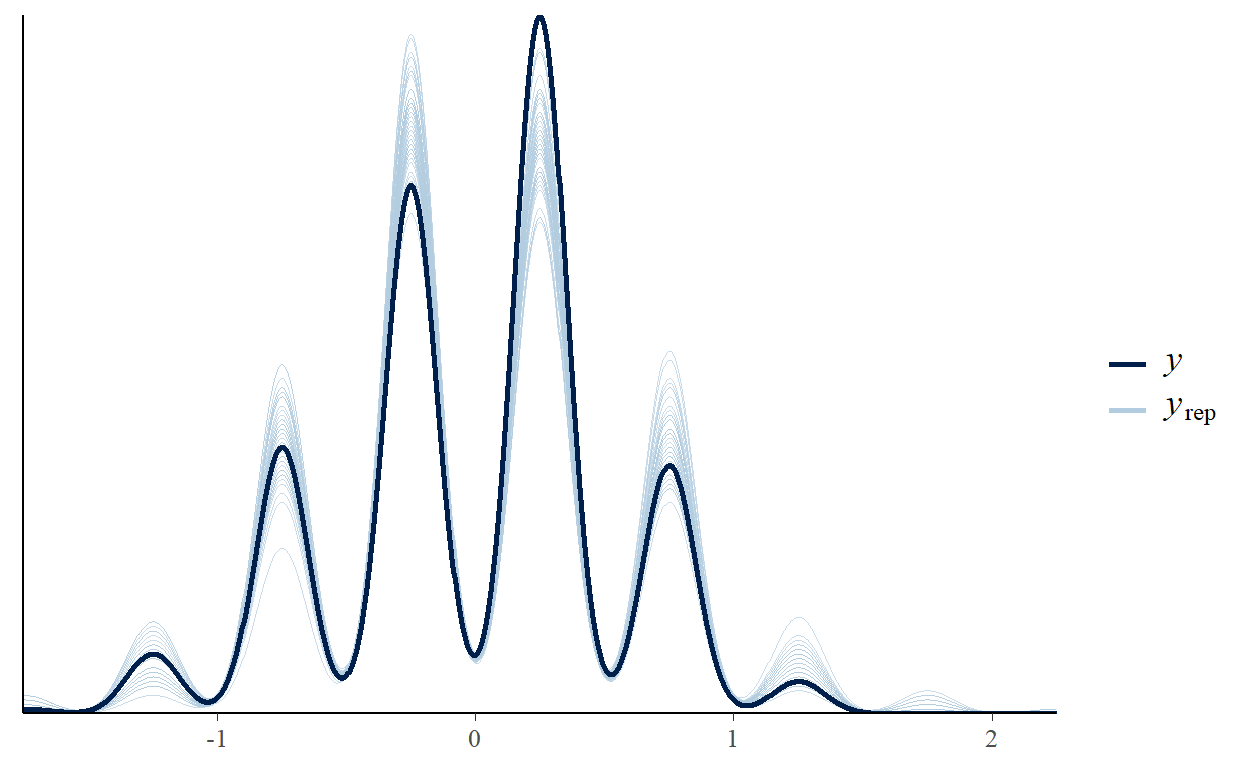
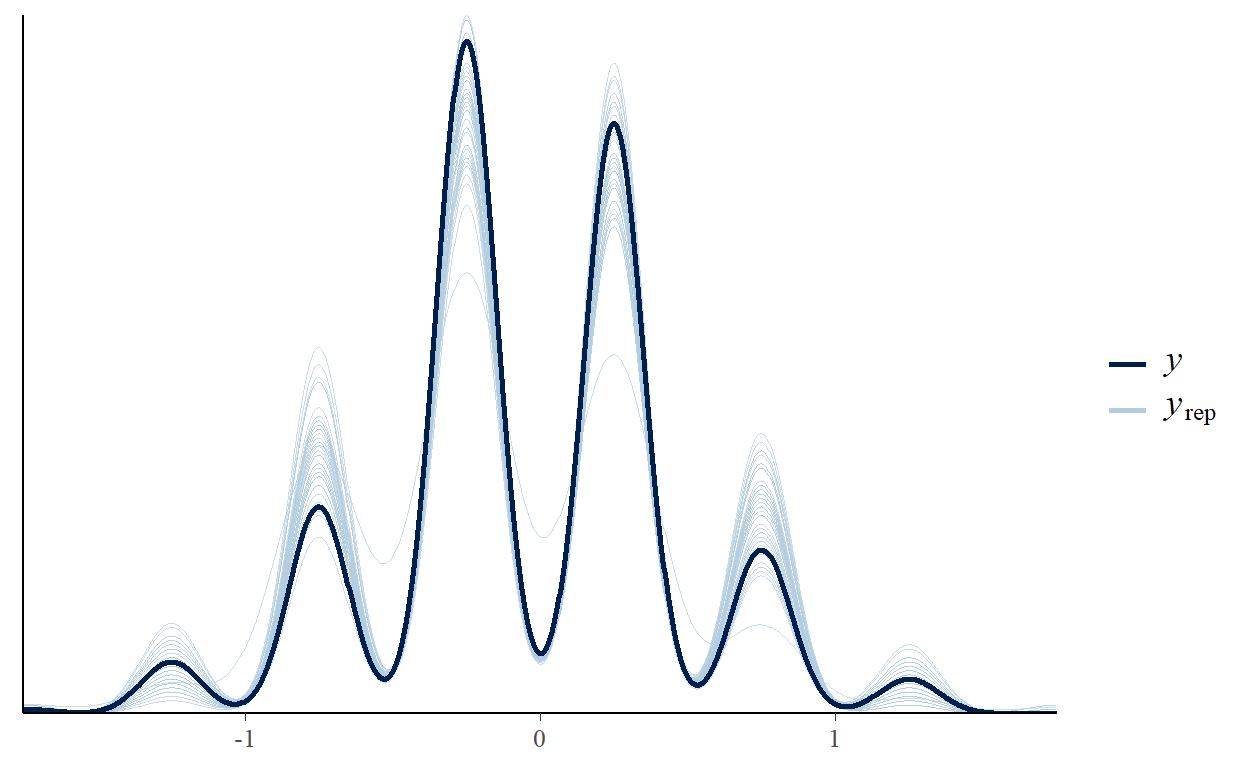
update with short description

Changed region(s): [[0.0312, 0.0312, 0.7812, 0.9375], [0.375, 0.9375, 0.4375, 0.9688]]

diff --git a/_posts/2022-07-07-histogram-data/histogram-data.html b/_posts/2022-07-07-histogram-data/histogram-data.html
@@ -89,7 +89,7 @@ code span.wa { color: #5e5e5e; font-style: italic; } /* Warning */
   <!--radix_placeholder_meta_tags-->
   <title>Histogram data</title>
 
-  <meta property="description" itemprop="description" content="A short description of the post."/>
+  <meta property="description" itemprop="description" content="Modelling and binning Histogram data for fun and profit."/>
 
 
   <!--  https://schema.org/Article -->
@@ -99,24 +99,24 @@ code span.wa { color: #5e5e5e; font-style: italic; } /* Warning */
   <!--  https://developers.facebook.com/docs/sharing/webmasters#markup -->
   <meta property="og:title" content="Histogram data"/>
   <meta property="og:type" content="article"/>
-  <meta property="og:description" content="A short description of the post."/>
+  <meta property="og:description" content="Modelling and binning Histogram data for fun and profit."/>
   <meta property="og:locale" content="en_US"/>
 
   <!--  https://dev.twitter.com/cards/types/summary -->
   <meta property="twitter:card" content="summary"/>
   <meta property="twitter:title" content="Histogram data"/>
-  <meta property="twitter:description" content="A short description of the post."/>
+  <meta property="twitter:description" content="Modelling and binning Histogram data for fun and profit."/>
 
   <!--/radix_placeholder_meta_tags-->
   <!--radix_placeholder_rmarkdown_metadata-->
 
   <script type="text/json" id="radix-rmarkdown-metadata">
-  {"type":"list","attributes":{"names":{"type":"character","attributes":{},"value":["title","description","date","output","draft","editor_options"]}},"value":[{"type":"character","attributes":{},"value":["Histogram data"]},{"type":"character","attributes":{},"value":["A short description of the post.\n"]},{"type":"character","attributes":{},"value":["07-07-2022"]},{"type":"list","attributes":{"names":{"type":"character","attributes":{},"value":["distill::distill_article"]}},"value":[{"type":"list","attributes":{"names":{"type":"character","attributes":{},"value":["self_contained"]}},"value":[{"type":"logical","attributes":{},"value":[false]}]}]},{"type":"logical","attributes":{},"value":[true]},{"type":"list","attributes":{"names":{"type":"character","attributes":{},"value":["chunk_output_type"]}},"value":[{"type":"character","attributes":{},"value":["console"]}]}]}
+  {"type":"list","attributes":{"names":{"type":"character","attributes":{},"value":["title","description","date","output","draft","editor_options"]}},"value":[{"type":"character","attributes":{},"value":["Histogram data"]},{"type":"character","attributes":{},"value":["Modelling and binning Histogram data for fun and profit.\n"]},{"type":"character","attributes":{},"value":["07-07-2022"]},{"type":"list","attributes":{"names":{"type":"character","attributes":{},"value":["distill::distill_article"]}},"value":[{"type":"list","attributes":{"names":{"type":"character","attributes":{},"value":["self_contained"]}},"value":[{"type":"logical","attributes":{},"value":[false]}]}]},{"type":"logical","attributes":{},"value":[true]},{"type":"list","attributes":{"names":{"type":"character","attributes":{},"value":["chunk_output_type"]}},"value":[{"type":"character","attributes":{},"value":["console"]}]}]}
   </script>
   <!--/radix_placeholder_rmarkdown_metadata-->
   
   <script type="text/json" id="radix-resource-manifest">
-  {"type":"character","attributes":{},"value":["categorical_hist","categorical_hist.exe","categorical_hist.stan","categorical_hist_norm","categorical_hist_norm.exe","categorical_hist_norm.stan","histogram-data_files/figure-html5/unnamed-chunk-1-1.png","histogram-data_files/figure-html5/unnamed-chunk-10-1.png","histogram-data_files/figure-html5/unnamed-chunk-11-1.png","histogram-data_files/figure-html5/unnamed-chunk-6-1.png","histogram-data_files/figure-html5/unnamed-chunk-7-1.png","histogram-data_files/figure-html5/unnamed-chunk-7-2.png","histogram-data_files/figure-html5/unnamed-chunk-8-1.png","histogram-data_files/figure-html5/unnamed-chunk-9-1.png","manual_probit_categorical.stan","midpoint","midpoint.exe","midpoint.stan","multinom_norm","multinom_norm.exe","multinom_norm.stan","Untitled.stan"]}
+  {"type":"character","attributes":{},"value":["categorical_hist","categorical_hist.exe","categorical_hist.stan","categorical_hist_norm","categorical_hist_norm.exe","categorical_hist_norm.stan","histogram-data_files/anchor-4.2.2/anchor.min.js","histogram-data_files/bowser-1.9.3/bowser.min.js","histogram-data_files/distill-2.2.21/template.v2.js","histogram-data_files/figure-html5/unnamed-chunk-1-1.png","histogram-data_files/figure-html5/unnamed-chunk-10-1.png","histogram-data_files/figure-html5/unnamed-chunk-11-1.png","histogram-data_files/figure-html5/unnamed-chunk-6-1.png","histogram-data_files/figure-html5/unnamed-chunk-7-1.png","histogram-data_files/figure-html5/unnamed-chunk-7-2.png","histogram-data_files/figure-html5/unnamed-chunk-8-1.png","histogram-data_files/figure-html5/unnamed-chunk-9-1.png","histogram-data_files/header-attrs-2.13/header-attrs.js","histogram-data_files/jquery-3.6.0/jquery-3.6.0.js","histogram-data_files/jquery-3.6.0/jquery-3.6.0.min.js","histogram-data_files/jquery-3.6.0/jquery-3.6.0.min.map","histogram-data_files/popper-2.6.0/popper.min.js","histogram-data_files/tippy-6.2.7/tippy-bundle.umd.min.js","histogram-data_files/tippy-6.2.7/tippy-light-border.css","histogram-data_files/tippy-6.2.7/tippy.css","histogram-data_files/tippy-6.2.7/tippy.umd.min.js","histogram-data_files/webcomponents-2.0.0/webcomponents.js","manual_probit_categorical.stan","midpoint","midpoint.exe","midpoint.stan","multinom_norm","multinom_norm.exe","multinom_norm.stan","Untitled.stan"]}
   </script>
   <!--radix_placeholder_navigation_in_header-->
   <!--/radix_placeholder_navigation_in_header-->
@@ -1458,7 +1458,7 @@ code span.wa { color: #5e5e5e; font-style: italic; } /* Warning */
 <!--radix_placeholder_front_matter-->
 
 <script id="distill-front-matter" type="text/json">
-{"title":"Histogram data","description":"A short description of the post.","authors":[],"publishedDate":"2022-07-07T00:00:00.000-04:00"}
+{"title":"Histogram data","description":"Modelling and binning Histogram data for fun and profit.","authors":[],"publishedDate":"2022-07-07T00:00:00.000-04:00"}
 </script>
 
 <!--/radix_placeholder_front_matter-->
@@ -1471,7 +1471,7 @@ code span.wa { color: #5e5e5e; font-style: italic; } /* Warning */
 <h1>Histogram data</h1>
 <!--radix_placeholder_categories-->
 <!--/radix_placeholder_categories-->
-<p><p>A short description of the post.</p></p>
+<p><p>Modelling and binning Histogram data for fun and profit.</p></p>
 </div>
 
 
@@ -1497,12 +1497,12 @@ code span.wa { color: #5e5e5e; font-style: italic; } /* Warning */
 <span class='va'>rr_mean</span>
 </code></pre>
 </div>
-<pre><code>[1] 0.0085</code></pre>
+<pre><code>[1] -0.019</code></pre>
 <div class="sourceCode">
 <pre class="sourceCode r"><code class="sourceCode r"><span class='fu'><a href='https://rdrr.io/r/base/with.html'>with</a></span><span class='op'>(</span><span class='va'>cut_rr_tbl</span>, <span class='fu'><a href='https://rdrr.io/r/base/sum.html'>sum</a></span><span class='op'>(</span><span class='va'>up</span><span class='op'>*</span><span class='va'>n</span><span class='op'>)</span><span class='op'>/</span><span class='fu'><a href='https://rdrr.io/r/base/sum.html'>sum</a></span><span class='op'>(</span><span class='va'>n</span><span class='op'>)</span><span class='op'>)</span>
 </code></pre>
 </div>
-<pre><code>[1] 0.2585</code></pre>
+<pre><code>[1] 0.231</code></pre>
 </div>
 <p>Can we do this same trick with the variance</p>
 <div class="layout-chunk" data-layout="l-body">
@@ -1510,7 +1510,7 @@ code span.wa { color: #5e5e5e; font-style: italic; } /* Warning */
 <pre class="sourceCode r"><code class="sourceCode r"><span class='fu'><a href='https://rdrr.io/r/base/with.html'>with</a></span><span class='op'>(</span><span class='va'>cut_rr_tbl</span>, <span class='fu'><a href='https://rdrr.io/r/base/sum.html'>sum</a></span><span class='op'>(</span><span class='op'>(</span><span class='va'>mid</span> <span class='op'>-</span> <span class='va'>rr_mean</span><span class='op'>)</span><span class='op'>^</span><span class='fl'>2</span><span class='op'>*</span><span class='va'>n</span><span class='op'>)</span><span class='op'>/</span><span class='fu'><a href='https://rdrr.io/r/base/sum.html'>sum</a></span><span class='op'>(</span><span class='va'>n</span><span class='op'>)</span><span class='op'>)</span>
 </code></pre>
 </div>
-<pre><code>[1] 1.035053</code></pre>
+<pre><code>[1] 1.013389</code></pre>
 </div>
 <p>yes for sure.</p>
 <p>Now let’s try something in Stan</p>
@@ -1526,25 +1526,25 @@ code span.wa { color: #5e5e5e; font-style: italic; } /* Warning */
 <span class='fu'><a href='https://rdrr.io/r/base/numeric.html'>as.numeric</a></span><span class='op'>(</span><span class='va'>rr_cut</span><span class='op'>)</span>
 </code></pre>
 </div>
-<pre><code>  [1] 16 14 11 15 15 16 13 16 14 16 18 15 19 16 12 11 13 13 17 13 15
- [22] 13 17 12 15 13 13 15 14 12 16 16 12 16 16 13 15 17 11 16 14 16
- [43] 14 14 12 15 12 15 20 13 16 16 12 12 12 13 15 15 17 16 11 13 12
- [64] 14 15 15 11 15 17 14 15 16 13 15 12 16 15 15 14 17 14 13 16 15
- [85] 16 13 14 16 15 15 15 11 16 11 15 12 17 17 16 13 15 13 16 14 15
-[106] 14 17 12 14 16 13 14 15 12 15 13 14 12 15 15 17 12 14 12 16 17
-[127] 16 12 15 15 16 15 14 18 14 16 15 16 15 13 16 13 12 14 17 13 16
-[148] 17 16 12 16 15 18 14 13 16 13 15 13 17 13 12 13 15 12 15 14 11
-[169] 14 16 14 14 14 14 13 15 10 14 13 17 13 18 16 16 18 15 12 12 13
-[190] 16 17 20 16 15 16 12 13 17 14 18 14 13 15 15 15 14 13 18 15 15
-[211] 14 10 17 11 16 16 11 15 12 10 14 14 14 16 16 16 13 15 15 17 15
-[232] 14 16 14 18 12 11 14 16 18 16 15 15 18 12 12 14 13 13 13 12 14
-[253] 14 14 13 14 14 15 15 15 12 13 16 12 14 14 16 15 15 11 19 15 13
-[274] 16 16 13 11 14 13 17 14 14 17 11 16 15 18 15 16 13 14 14 16 14
-[295] 12 14 17 14 14 14 14 15 14 15 15 13 16 14 13 13 15 15 14 17 18
-[316] 11 12 15 12 14 12 15 13 16 16 11 13 15 12 15 18 12 12 17 14 17
-[337] 13 12 19 15 14 14 17 11 13 16 15 12 10 15 17 14 17 18 16 12 18
-[358] 15 16 14 16 16 13 16 15 15 16 14 13 21 17 17 10 17 12 14 14 15
-[379] 17 11 15 14 13 15 16 11 13 14 14 13 12 18 14 16 12 15 12 15 13
+<pre><code>  [1] 17 15 17 15 14 14 17 13 19 13 14 17 15 14 15 15 16 13 17 11 21
+ [22] 16 14 12 12 16 17 11 12 10 15 11 16 18 16 12 11 16 16 14 16 13
+ [43] 17 13 13 16 15 18 14 15 12 19 15 12 17 16 17 17 13 12 14 13 11
+ [64] 11 17  9 15 12 16 14 14 16 13 11 15 15 14 19 16 13 16 15 15 16
+ [85] 14 11 11 18 16 13 15 12 17 14 12 16 15 14 14 13 16 15 14 16 18
+[106] 11 15 13 15 16 13 15 15 14 17 15 15 17 11 15 11 14 10 14 13 16
+[127] 16 15 13 16 16 16 17 17 18 16 15 18 14 16 14 17 15 15 14 18 16
+[148] 16 13 13 15 17 17 17 12 16 15 18 14 12 14 15 15 16 19 17 17 12
+[169] 14 13 14 16 14 13 19 15 14 12 14 15 13 13  7 17 13 14 10 16 13
+[190] 13 12 18 14 12 11 13 17 13 14 13 15 13 15 15 13 15 14 14 14 12
+[211] 12 14 14 16 13 15 10 18 14 16 16 16 18 18 15 19 12 16 16 14 12
+[232] 15 15 12 15 13 16 13 15 14 14 13 16 18 16 15 15 14 13 15 16 13
+[253] 18 18 15 12 13 14 14 16 15 16 15 17 15 13 13 14 11 15 16 15 12
+[274] 20 14 20 16 17 13 15 13 13 14 12 12 17 11 15 15 17 11 18 11 17
+[295] 14 14 13 12 13 16 11 13 19 11 13 15 14 16 15 17 15 17 17 15 14
+[316] 13 15 13 15 13 14 19 17 12 10 15 15 12 14 15 17 13 10 13 16 13
+[337] 16 15 18  9 16 14 14 15 12 10 11 15 14 16 15 12 18 12 16 15 11
+[358] 17 15 15 14 14 14 12 14 15 16 14 15 16 15 16 13 16 13 16 12 15
+[379] 11 14 17 17 15 15 13 14 16 15 15 18 14 16 15 16 18 16 14 15 16
 [400] 15</code></pre>
 <div class="sourceCode">
 <pre class="sourceCode r"><code class="sourceCode r"><span class='va'>breaks</span>
@@ -1687,7 +1687,7 @@ Chain 4 finished in 0.3 seconds.
 
 All 4 chains finished successfully.
 Mean chain execution time: 0.3 seconds.
-Total execution time: 1.9 seconds.</code></pre>
+Total execution time: 2.0 seconds.</code></pre>
 </div>
 <h2 id="via-multinomial">via multinomial</h2>
 <div class="layout-chunk" data-layout="l-body">
@@ -1804,7 +1804,7 @@ Chain 4 finished in 0.3 seconds.
 
 All 4 chains finished successfully.
 Mean chain execution time: 0.3 seconds.
-Total execution time: 2.1 seconds.</code></pre>
+Total execution time: 1.9 seconds.</code></pre>
 </div>
 <h2 id="sampling-midpoints">sampling midpoints</h2>
 <div class="layout-chunk" data-layout="l-body">
@@ -1849,15 +1849,15 @@ Chain 4 finished in 0.0 seconds.
 
 All 4 chains finished successfully.
 Mean chain execution time: 0.0 seconds.
-Total execution time: 1.1 seconds.</code></pre>
+Total execution time: 1.0 seconds.</code></pre>
 <div class="sourceCode">
 <pre class="sourceCode r"><code class="sourceCode r"><span class='va'>mid_samp</span>
 </code></pre>
 </div>
 <pre><code> variable  mean median   sd  mad    q5   q95 rhat ess_bulk ess_tail
-    lp__  48.94  49.23 0.99 0.71 46.97 49.88 1.00     2090     2375
-    mu    -0.01  -0.01 0.03 0.03 -0.05  0.04 1.00     3196     2511
-    sigma  0.54   0.54 0.02 0.02  0.51  0.57 1.00     3335     2587</code></pre>
+    lp__  74.88  75.19 1.01 0.70 72.91 75.82 1.00     1993     2569
+    mu    -0.05  -0.05 0.03 0.02 -0.09 -0.01 1.00     2901     2645
+    sigma  0.50   0.50 0.02 0.02  0.47  0.53 1.00     3271     2724</code></pre>
 </div>
 <p>lcdf</p>
 <div class="layout-chunk" data-layout="l-body">
@@ -1957,40 +1957,40 @@ from a gamma model.</p>
 <span class='va'>rg</span>
 </code></pre>
 </div>
-<pre><code>  [1] 12.714375 20.261374 14.902104 15.160656 20.990857 12.134050
-  [7] 12.195719 12.967315 12.041215  8.936498 19.065889 18.030585
- [13] 12.560313 17.706094 18.695678 12.444846 14.976548 14.257198
- [19] 12.885201 16.355987 13.493204 11.999802 13.586090 15.098597
- [25] 14.470730 10.424579 21.871143 12.679249 11.736449 11.894312
- [31] 15.413677 13.217943 10.126992 20.435793 20.756067 15.297751
- [37] 15.704461 11.864835 11.783023 13.941997 11.809138 13.644394
- [43] 13.861567 14.224788 13.460850 16.123935 20.417708 10.444592
- [49] 15.263411 13.177385 13.885214 14.273772 13.719960 14.528183
- [55]  7.077746 13.853634 11.089074 13.430395 16.670247 13.026514
- [61] 18.731883 14.300146 16.666546 15.687866 19.239810 10.944613
- [67] 16.698815 13.093772 15.850077 13.586938 20.772102 17.052941
- [73] 14.128761 12.484358 15.190181 13.975236 10.270695 14.726495
- [79] 12.148992 15.765050 13.165498 14.842138 14.963333 14.384130
- [85] 13.712992 12.106312 13.748781 18.303475 17.561887  9.176919
- [91] 13.941207 13.845962  8.891384  7.222275 14.450744 14.087017
- [97]  8.054989 16.703875 14.565028 17.176766 13.486351 12.407643
-[103] 13.156442 13.459740 10.986274 13.975048 10.189795 12.279804
-[109] 18.498456 13.415559 13.308331 15.308379 17.203830 14.239371
-[115] 10.405482 18.281240 15.517911 11.363580 14.339773 14.895010
-[121] 14.453697 13.895750 19.622496 14.784949 14.683383 17.042457
-[127] 17.436831 11.264358 12.576236 13.512371 15.153780 14.060481
-[133] 13.792381 18.526784 12.617535  9.390998 11.024880 13.785221
-[139] 15.185655 12.600033 12.216073 15.915227 22.054257 13.053088
-[145] 14.004962 15.746929 11.441630 11.457314 21.278278 16.199764
-[151] 15.049347 11.776812 14.588791 10.653408 13.768838 15.945099
-[157] 17.035914 14.567141 18.746622 17.263510 14.045482 18.239503
-[163]  8.385748 18.963312 18.572258 15.904708 14.799765 15.126870
-[169] 23.080141 15.136647 14.757372 15.208671 12.326769 13.436154
-[175] 11.434262  9.299138 21.566867 20.375373 18.983133 17.216085
-[181] 17.296938 15.862397 12.043775 14.088120 12.152064 10.716454
-[187] 15.777457 15.179168 12.697168  8.563600 10.967552 18.472881
-[193] 18.656366 11.901159 11.379965 13.411207 13.351771 11.835456
-[199] 13.326990 10.567651</code></pre>
+<pre><code>  [1]  9.289292 12.005772 15.541549 14.980485 11.488991 11.948976
+  [7]  9.487503  7.662266 18.546547 11.489544 14.869158 18.736340
+ [13] 15.707466 13.809892 20.783606 14.438024 13.958879 13.410187
+ [19] 22.043260 13.798665 10.202253 14.089952 17.929055 13.230669
+ [25] 11.284036 13.396635 10.799423 18.174829 14.923843  8.848020
+ [31] 10.383358 12.992467 11.395996 11.558869 13.541719 11.765742
+ [37] 12.436771 12.565700 12.066943 11.785912 19.395157  9.069380
+ [43] 14.240775 11.556181  9.796395  9.173772 12.682824 14.053368
+ [49] 13.385641 10.604164 14.384053 11.994542 16.057552 12.556576
+ [55] 14.882514 10.996791 15.321617 10.368076  9.013996 18.477871
+ [61] 14.678023 16.707531 17.489532 10.750675 15.325352 12.291395
+ [67] 15.459565 13.802409 11.659279 13.836612 22.812591  9.228545
+ [73] 13.937347 15.593809 11.479727 11.200488 13.554615 14.849177
+ [79] 17.070892  8.600793 16.594254 14.951677 15.086493 15.871966
+ [85] 13.633733 14.737208  7.846880  9.885185 18.636334 10.495094
+ [91] 12.485707 14.801332  8.006695 11.482000 12.195254 11.679477
+ [97] 14.715254 11.532013 17.193781 12.417665 12.189632 14.358531
+[103] 11.453968 17.587934 14.867578 16.956199 16.923981  9.869954
+[109]  8.577644 13.398736 11.836296 15.221882 19.210164 11.455254
+[115] 13.990316 17.934294  9.388319 17.738331 12.076512 18.437756
+[121] 10.266981 15.553978 12.962641 12.760626 14.602645 11.515444
+[127] 21.516318 12.051242 15.435814 16.865909  8.998165 11.689229
+[133] 10.839428 10.192649 12.205751  9.851865 14.375486 21.696634
+[139] 15.401531 14.375573 15.478977 14.445968  8.903392 11.117990
+[145] 13.575826 11.332529 22.840403 21.264014 16.355886 14.270868
+[151] 16.800814 11.982217 12.808654 10.477125 14.503280 12.510864
+[157] 16.950217 17.215710 14.206901 12.101521  9.089875 18.375612
+[163] 10.159642 12.931993  9.461659  9.811084 11.266697 16.730067
+[169]  9.836313 16.163374 13.903650 20.468218 16.273985 14.534679
+[175] 17.165503 14.502727 20.263376 16.316309 12.384848 14.704404
+[181] 14.742249 19.045397 15.404344 18.465592 10.330374 12.494951
+[187] 15.831452 15.656513 14.408881 19.616974 14.326729 11.372435
+[193] 16.931427 13.043372 16.255045 15.020328 12.956769 15.679852
+[199] 15.745649 16.054832</code></pre>
 <div class="sourceCode">
 <pre class="sourceCode r"><code class="sourceCode r"><span class='co'># checking growth every even-numbered day</span>
 
@@ -2029,16 +2029,16 @@ from a gamma model.</p>
 <pre class="sourceCode r"><code class="sourceCode r"><span class='va'>mids</span><span class='op'>[</span><span class='fu'><a href='https://rdrr.io/r/base/numeric.html'>as.numeric</a></span><span class='op'>(</span><span class='va'>rg_evencut</span><span class='op'>)</span><span class='op'>]</span>
 </code></pre>
 </div>
-<pre><code>  [1] 13 21 15 15 21 13 13 13 13  9 19 19 13 17 19 13 15 15 13 17 13
- [22] 11 13 15 15 11 21 13 11 11 15 13 11 21 21 15 15 11 11 13 11 13
- [43] 13 15 13 17 21 11 15 13 13 15 13 15  7 13 11 13 17 13 19 15 17
- [64] 15 19 11 17 13 15 13 21 17 15 13 15 13 11 15 13 15 13 15 15 15
- [85] 13 13 13 19 17  9 13 13  9  7 15 15  9 17 15 17 13 13 13 13 11
-[106] 13 11 13 19 13 13 15 17 15 11 19 15 11 15 15 15 13 19 15 15 17
-[127] 17 11 13 13 15 15 13 19 13  9 11 13 15 13 13 15 23 13 15 15 11
-[148] 11 21 17 15 11 15 11 13 15 17 15 19 17 15 19  9 19 19 15 15 15
-[169] 23 15 15 15 13 13 11  9 21 21 19 17 17 15 13 15 13 11 15 15 13
-[190]  9 11 19 19 11 11 13 13 11 13 11</code></pre>
+<pre><code>  [1]  9 13 15 15 11 11  9  7 19 11 15 19 15 13 21 15 13 13 23 13 11
+ [22] 15 17 13 11 13 11 19 15  9 11 13 11 11 13 11 13 13 13 11 19  9
+ [43] 15 11  9  9 13 15 13 11 15 11 17 13 15 11 15 11  9 19 15 17 17
+ [64] 11 15 13 15 13 11 13 23  9 13 15 11 11 13 15 17  9 17 15 15 15
+ [85] 13 15  7  9 19 11 13 15  9 11 13 11 15 11 17 13 13 15 11 17 15
+[106] 17 17  9  9 13 11 15 19 11 13 17  9 17 13 19 11 15 13 13 15 11
+[127] 21 13 15 17  9 11 11 11 13  9 15 21 15 15 15 15  9 11 13 11 23
+[148] 21 17 15 17 11 13 11 15 13 17 17 15 13  9 19 11 13  9  9 11 17
+[169]  9 17 13 21 17 15 17 15 21 17 13 15 15 19 15 19 11 13 15 15 15
+[190] 19 15 11 17 13 17 15 13 15 15 17</code></pre>
 </div>
 <div class="layout-chunk" data-layout="l-body">
 
